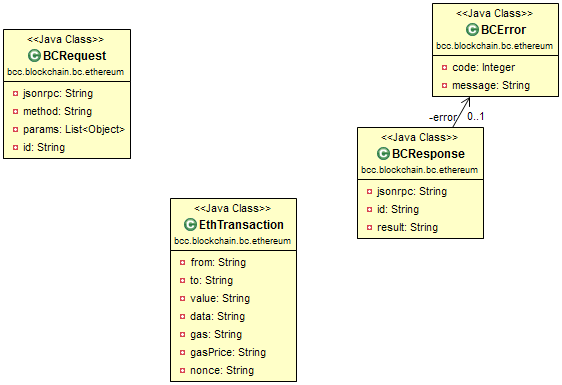
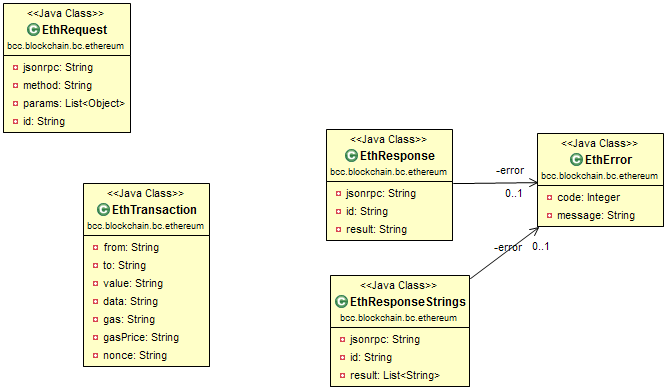
update for Ethereum

diff --git a/blockchain/src/main/java/bcc/blockchain/bc/ethereum/EthereumBlockchain.java b/blockchain/src/main/java/bcc/blockchain/bc/ethereum/EthereumBlockchain.java
@@ -1,5 +1,6 @@
 package bcc.blockchain.bc.ethereum;
 
+import java.util.ArrayList;
 import java.util.Arrays;
 import java.util.LinkedList;
 import java.util.List;
@@ -10,12 +11,13 @@ import org.springframework.http.HttpEntity;
 import org.springframework.http.HttpHeaders;
 import org.springframework.http.MediaType;
 import org.springframework.http.client.BufferingClientHttpRequestFactory;
+import org.springframework.http.client.ClientHttpRequestInterceptor;
 import org.springframework.http.client.SimpleClientHttpRequestFactory;
 import org.springframework.web.client.RestClientException;
 import org.springframework.web.client.RestTemplate;
 
-
 import bcc.blockchain.bc.BCTransaction;
+import bcc.blockchain.bc.LoggingRequestInterceptor;
 
 public class EthereumBlockchain extends bcc.blockchain.bc.AbsractBlockchain {
 	private static final Logger log = LoggerFactory.getLogger(EthereumBlockchain.class);
@@ -23,10 +25,10 @@ public class EthereumBlockchain extends bcc.blockchain.bc.AbsractBlockchain {
 	List<String> nodes = new LinkedList<>();
 	List<String> accounts = new LinkedList<>();
 
-	String url;
-	RestTemplate restTemplate = new RestTemplate();
-			//new BufferingClientHttpRequestFactory(new SimpleClientHttpRequestFactory()));
-	HttpHeaders headers = new HttpHeaders();
+	protected String url;
+	protected RestTemplate restTemplate = new RestTemplate( //);
+			new BufferingClientHttpRequestFactory(new SimpleClientHttpRequestFactory()));
+	protected HttpHeaders headers = new HttpHeaders();
 	//RPC rpc = new RPC();
 	
 	public EthereumBlockchain() {
@@ -44,14 +46,26 @@ public class EthereumBlockchain extends bcc.blockchain.bc.AbsractBlockchain {
 		this.nodes=nodes;
 		this.accounts=accounts;
 	}
+	
+	@Override
+	public void setTraceHttpRequestResponce(boolean trace) {
+		// for low level request/response logging
+		List<ClientHttpRequestInterceptor> interceptors = new ArrayList<ClientHttpRequestInterceptor>();
+		if (trace) {
+			interceptors.add(new LoggingRequestInterceptor());
+		}
+		restTemplate.setInterceptors(interceptors);
+	}
+
+
 
 	@Override
 	public String saveTransaction(BCTransaction tr) {
 		//transaction = new BCTransactionSend(fromAccount, toAccount, value, tData, DEFAULT_GAS);
 		EthTransaction ethTr = new EthTransaction(tr);
-		EthTransaction[] array = new EthTransaction[1];
-		array[0] = ethTr;
-		return eth_sendTransaction(array);
+//		EthTransaction[] array = new EthTransaction[1];
+//		array[0] = ethTr;
+		return eth_sendTransaction(ethTr);
 	}
 
 	@Override
@@ -84,15 +98,15 @@ public class EthereumBlockchain extends bcc.blockchain.bc.AbsractBlockchain {
 	//or
 	// https://github.com/ethereum/wiki/wiki/JSON-RPC#eth_sendtransaction
 	/**
-	 * @param transactionArray
+	 * @param ethTr
 	 * @return transaction hash
 	 */
 	//TODO test response for 2+ transactions
-	private String eth_sendTransaction(EthTransaction[] transactionArray) {
+	private String eth_sendTransaction(EthTransaction ethTr) {
 		//HttpEntity<String> entity = getRequestEntity(restTemplate, transaction.request());
 		EthRequest req = new EthRequest();
 		req.setMethod("eth_sendTransaction");
-		req.addParam(transactionArray);
+		req.addParam(ethTr);
 
 		HttpEntity<EthRequest> entity = new HttpEntity<EthRequest>(req, headers);
 
@@ -103,6 +117,7 @@ public class EthereumBlockchain extends bcc.blockchain.bc.AbsractBlockchain {
 			log.error("RestClientException: {}", e.getMessage());
 			return null;
 		}
+		log.debug("{}", response);
 		String result = response.getResult();
 		log.debug("result {}", result);
 		
@@ -149,7 +164,11 @@ public class EthereumBlockchain extends bcc.blockchain.bc.AbsractBlockchain {
 			log.error("RestClientException: {}", e.getMessage());
 			return -1;
 		}
-		
+		log.debug("{}", response);
+		if (response.getError()!=null) {
+			log.warn("{}", response.getError() );
+			return -2;
+		}
 		String result = response.getResult();
 		log.debug("result {}", result);
 		return Integer.decode(result);

diff --git a/blockchain/src/main/java/bcc/blockchain/bc/LoggingRequestInterceptor.java b/blockchain/src/main/java/bcc/blockchain/bc/LoggingRequestInterceptor.java
@@ -1,0 +1,47 @@
+package bcc.blockchain.bc;
+
+import java.io.BufferedReader;
+import java.io.IOException;
+import java.io.InputStreamReader;
+
+import org.slf4j.Logger;
+import org.slf4j.LoggerFactory;
+import org.springframework.http.HttpRequest;
+import org.springframework.http.client.ClientHttpRequestExecution;
+import org.springframework.http.client.ClientHttpRequestInterceptor;
+import org.springframework.http.client.ClientHttpResponse;
+
+public class LoggingRequestInterceptor implements ClientHttpRequestInterceptor {
+
+    final static Logger log = LoggerFactory.getLogger(LoggingRequestInterceptor.class);
+
+    @Override
+    public ClientHttpResponse intercept(HttpRequest request, byte[] body, ClientHttpRequestExecution execution) throws IOException {
+        traceRequest(request, body);
+        ClientHttpResponse response = execution.execute(request, body);
+        traceResponse(response);
+        return response;
+    }
+
+    private void traceRequest(HttpRequest request, byte[] body) throws IOException {
+        log.debug("Request URI     : {}", request.getURI());
+        log.debug("Request Method  : {}", request.getMethod());
+        log.debug("Request Headers : {}", request.getHeaders() );
+        log.debug("Request Body    : {}", new String(body, "UTF-8"));
+    }
+
+    private void traceResponse(ClientHttpResponse response) throws IOException {
+    	StringBuilder bodyStringBuilder = new StringBuilder();
+        BufferedReader reader = new BufferedReader(new InputStreamReader(response.getBody(), "UTF-8"));
+        String line = reader.readLine();
+        while (line != null) {
+            bodyStringBuilder.append(line);
+            line = reader.readLine();
+        }
+        log.debug("Response Status code : {}", response.getStatusCode());
+        log.debug("Response Status text : {}", response.getStatusText());
+        log.debug("Response Headers     : {}", response.getHeaders());
+        log.debug("Response Body        : {}", bodyStringBuilder.toString());
+    }
+
+}

diff --git a/blockchain/src/main/java/bcc/blockchain/bc/ethereum/EthError.java b/blockchain/src/main/java/bcc/blockchain/bc/ethereum/EthError.java
@@ -9,7 +9,6 @@ public class EthError {
 		message = "";
 	}
 	
-	
 	public Integer getCode() {
 		return code;
 	}
@@ -23,10 +22,9 @@ public class EthError {
 		this.message = message;
 	}
 	
-	
 	@Override
 	public String toString() {
-	return "BCError{ code=" + code + ", message="+message + "}";
+		return "EthError {code=" + code + ", message=" + message + "}";
 	}
 	
 }

diff --git a/blockchain/src/main/java/bcc/blockchain/bc/ethereum/EthResponse.java b/blockchain/src/main/java/bcc/blockchain/bc/ethereum/EthResponse.java
@@ -33,7 +33,7 @@ public class EthResponse {
 	}
 	@Override
 	public String toString() {
-		return "BCResponse [jsonrpc=" + jsonrpc + ", id=" + id + ", result=" + result + ", error=" + error + "]";
+		return "EthResponse [jsonrpc=" + jsonrpc + ", id=" + id + ", result=" + result + ", error=" + error + "]";
 	}
 	
 	

diff --git a/blockchain/src/main/java/bcc/blockchain/bc/ethereum/EthRequest.java b/blockchain/src/main/java/bcc/blockchain/bc/ethereum/EthRequest.java
@@ -48,6 +48,6 @@ public class EthRequest {
 
 	@Override
 	public String toString() {
-		return "BCRequest [jsonrpc=" + jsonrpc + ", method=" + method + ", params=" + params + ", id=" + id + "]";
+		return "EthRequest [jsonrpc=" + jsonrpc + ", method=" + method + ", params=" + params + ", id=" + id + "]";
 	}
 }

diff --git a/blockchain/src/main/java/bcc/blockchain/bc/BCTransaction.java b/blockchain/src/main/java/bcc/blockchain/bc/BCTransaction.java
@@ -1,7 +1,9 @@
 package bcc.blockchain.bc;
 
 /**
- * Transaction in any blockchain in line in ledger:
+ * General blockchain transaction.
+ * 
+ * Transaction in any blockchain is a line in ledger:
  * <code>from</code> some account, <code>to</code> some account, and what <code>value</code>
  *
  */

diff --git a/blockchain/src/main/java/bcc/blockchain/bc/Blockchain.java b/blockchain/src/main/java/bcc/blockchain/bc/Blockchain.java
@@ -2,8 +2,11 @@ package bcc.blockchain.bc;
 
 public interface Blockchain {
 
+	void setTraceHttpRequestResponce(boolean traceSetting);
+
 	String saveTransaction(BCTransaction tr);
 
 	BCTransaction readTransaction(String trid);
+
 
 }
